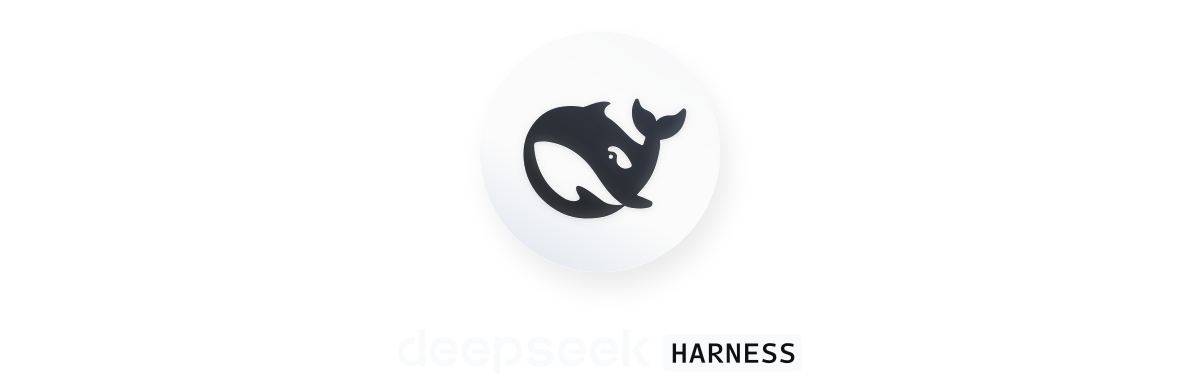
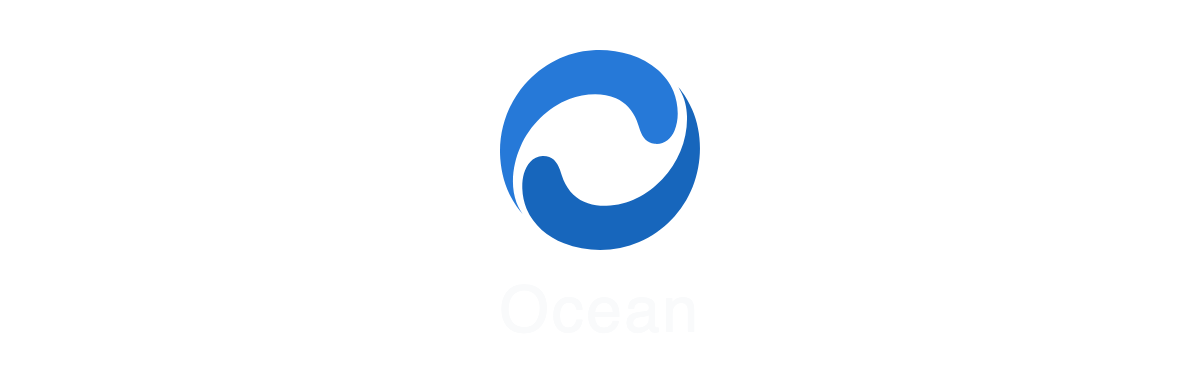
fix(desktop): brand the installer pages Ocean instead of DeepSeek
Replace the DeepSeek whale and wordmark in the welcome/finish brand bitmaps (both themes, 1x/2x) and the uninstaller sidebar with the Ocean swirl and wordmark, matching the product branding policy. Regenerate from the shared FishLogo geometry at the existing asset dimensions; document the artwork and the measured captions in both READMEs and re-record the bilingual pair.

Changed region(s): [[0.4008, 0.1224, 0.5858, 0.6429], [0.555, 0.8571, 0.6783, 0.949]]

diff --git a/apps/desktop/README.md b/apps/desktop/README.md
@@ -101,7 +101,7 @@ The tray renderer enlarges the whale by 20% around the tile center while preserv
 
 ## Key technical decisions
 
-The original artwork lives in `resources/icon.png` and `resources/icon.svg`; platform adaptations retain the whale and gradients in `resources/icon-windows.*` and `resources/icon-macos.*`. Export each platform SVG as a transparent 1024×1024 PNG. Electron-builder generates the multi-size ICO for the Windows application, installer, and uninstaller ([Windows icon requirements](https://learn.microsoft.com/en-us/windows/apps/design/iconography/app-icon-construction)). The installation pages use matching artwork in both themes; the uninstaller's welcome and finish pages share `installer/assets/uninstaller-sidebar.png`, converted to a 164×314 BMP during preparation.
+The original artwork lives in `resources/icon.png` and `resources/icon.svg`; platform adaptations retain the whale and gradients in `resources/icon-windows.*` and `resources/icon-macos.*`. Export each platform SVG as a transparent 1024×1024 PNG. Electron-builder generates the multi-size ICO for the Windows application, installer, and uninstaller ([Windows icon requirements](https://learn.microsoft.com/en-us/windows/apps/design/iconography/app-icon-construction)). The installation pages show the Ocean swirl and wordmark from `installer/assets/brand*.png` in both themes; the uninstaller's welcome and finish pages share `installer/assets/uninstaller-sidebar.png`, converted to a 164×314 BMP during preparation.
 
 Shortcut overrides are stored in `app.getPath('userData')/keybindings.json`, separately from `OCEAN_HOME`. The main process validates and serializes changes before publishing accepted bindings to local and remote Host views. Native shortcuts go to the selected view. Failed reads retain the last accepted bindings and block edits, including Restore All; unreadable and future-version files remain unchanged. Development can isolate these preferences with `OCEAN_DESKTOP_USER_DATA_DIR`; the launcher prints its resolved path. See the [shortcut service](../../packages/client/shortcuts/README.md) for format and conflict semantics.
 
@@ -265,7 +265,7 @@ Use the dedicated guides for build and release operations. Shared Windows runner
 
 During a confirmed Windows update restart, a separate process displays a draggable status notice until the installation stage ends. The installer does not wait for this window; installation and relaunch continue if it cannot start or stops responding. A gap can remain before the new application window appears. Optional DPI APIs are resolved at runtime, with 96 DPI layout when unavailable.
 
-The Windows installer uses native NSIS pages with light and dark palettes, system shadows, an editable installation directory, and a finish page whose launch checkbox is selected by default. Installation is restricted to the current user. Clicking Install or pressing Enter validates the current path; drive roots remain invalid after normalization, including repeated trailing separators. New destinations must be empty, and nonempty destinations must be registered installations. Running executables at the affected installation path produce a native prompt and remain running; same-named applications in other directories do not block installation. Silent updates wait up to ten seconds for the affected application to exit, then stop with exit code 2 if it is still running.
+The Windows installer uses native NSIS pages with light and dark palettes, system shadows, an editable installation directory, and a finish page whose launch checkbox is selected by default. The Install, directory chooser, and Browse buttons measure their localized captions and centre on the measured width, so long captions never clip; the path frame takes the width the Browse button leaves. Installation is restricted to the current user. Clicking Install or pressing Enter validates the current path; drive roots remain invalid after normalization, including repeated trailing separators. New destinations must be empty, and nonempty destinations must be registered installations. Running executables at the affected installation path produce a native prompt and remain running; same-named applications in other directories do not block installation. Silent updates wait up to ten seconds for the affected application to exit, then stop with exit code 2 if it is still running.
 
 The theme follows Windows at startup; `/THEME=light`, `/THEME=dark`, and `/THEME=auto` select a palette explicitly. The window appears after its branded controls are ready. When the welcome page first appears, the installer moves above ordinary windows once and flashes its taskbar button if another window has focus; it does not remain always on top. Progress reads the pinned 7-Zip extractor’s percentage; directory promotion, registration, and cleanup retain bounded estimates. The weighted percentage does not predict remaining time. After NSIS reports success, the bar fills over 600 ms and displays 100% briefly before the finish page appears; the transition targets 750 ms. The finish page preserves the window position. Finish dismisses the installer before launching the installed executable; a launch failure restores the page for retry. Directory replacement and failure recovery follow the [installation checks](packaging/README.md#runtime-file-selection). First-launch profile preparation remains a separate Desktop operation.
 

diff --git a/apps/desktop/README.zh.md b/apps/desktop/README.zh.md
@@ -101,7 +101,7 @@ Windows 在整个运行期间常驻托盘图标。悬停提示为产品名，单
 
 ## 关键技术决策
 
-设计师原稿位于 `resources/icon.png` 和 `resources/icon.svg`；平台适配保留鲸鱼与渐变，分别位于 `resources/icon-windows.*` 和 `resources/icon-macos.*`。将各平台 SVG 导出为透明的 1024×1024 PNG。electron-builder 为 Windows 应用、安装程序和卸载程序生成多尺寸 ICO（[Windows 图标要求](https://learn.microsoft.com/en-us/windows/apps/design/iconography/app-icon-construction)）。安装页面在两种主题下使用匹配的图案；卸载程序的欢迎和完成页共用 `installer/assets/uninstaller-sidebar.png`，准备阶段将其转换为 164×314 BMP。
+设计师原稿位于 `resources/icon.png` 和 `resources/icon.svg`；平台适配保留鲸鱼与渐变，分别位于 `resources/icon-windows.*` 和 `resources/icon-macos.*`。将各平台 SVG 导出为透明的 1024×1024 PNG。electron-builder 为 Windows 应用、安装程序和卸载程序生成多尺寸 ICO（[Windows 图标要求](https://learn.microsoft.com/en-us/windows/apps/design/iconography/app-icon-construction)）。安装页面在两种主题下展示 `installer/assets/brand*.png` 中的 Ocean 旋环标志与字标；卸载程序的欢迎和完成页共用 `installer/assets/uninstaller-sidebar.png`，准备阶段将其转换为 164×314 BMP。
 
 快捷键覆盖保存在 `app.getPath('userData')/keybindings.json`，与 `OCEAN_HOME` 分离。主进程校验并串行保存修改后，向本地和远程 Host 视图发布已接受的键位。原生快捷键发给当前选中的视图。读取失败保留上次接受的键位并阻止编辑，包括全部恢复；不可读和未来版本的文件保持不变。开发时可通过 `OCEAN_DESKTOP_USER_DATA_DIR` 隔离这些偏好，启动器会输出解析后的路径。格式和冲突语义见[快捷键服务](../../packages/client/shortcuts/README.zh.md)。
 
@@ -265,7 +265,7 @@ API Key 输入框初始为空，并通过 `autocomplete="new-password"` 请求 C
 
 Windows 更新确认重启后，独立进程显示可拖动的状态提示，直到安装阶段结束。安装器不等待提示窗；提示窗无法启动或失去响应时，安装和重新启动仍会继续。新版应用窗口出现前仍可能有一段空白。可选的 DPI API 在运行时解析，不可用时采用 96 DPI 布局。
 
-Windows 安装程序使用原生 NSIS 页面，提供亮暗配色、系统阴影、可编辑的安装目录，以及默认勾选立即启动的完成页。安装仅面向当前用户。点击安装或按 Enter 均校验当前路径；路径规范化后仍拒绝磁盘根目录，包括带重复末尾分隔符的写法。新安装位置必须为空，非空位置必须是已登记的安装目录。受影响安装路径中的程序运行时显示系统提示，并保持应用运行；其他目录中的同名应用不阻止安装。静默更新最多等待受影响应用退出十秒，若仍在运行则以退出码 2 结束。
+Windows 安装程序使用原生 NSIS 页面，提供亮暗配色、系统阴影、可编辑的安装目录，以及默认勾选立即启动的完成页。安装、选择目录与浏览按钮按本地化标题的实测宽度居中排布，长标题不会被裁切；路径输入框占据浏览按钮让出的宽度。安装仅面向当前用户。点击安装或按 Enter 均校验当前路径；路径规范化后仍拒绝磁盘根目录，包括带重复末尾分隔符的写法。新安装位置必须为空，非空位置必须是已登记的安装目录。受影响安装路径中的程序运行时显示系统提示，并保持应用运行；其他目录中的同名应用不阻止安装。静默更新最多等待受影响应用退出十秒，若仍在运行则以退出码 2 结束。
 
 主题在启动时跟随 Windows；可用 `/THEME=light`、`/THEME=dark` 和 `/THEME=auto` 显式选择配色。窗口在品牌控件准备完成后显示。欢迎页首次出现时，安装窗口会一次性移到普通窗口前方；若焦点在其他窗口，任务栏按钮会闪烁提示，但安装窗口不会始终置顶。进度读取锁定版本的 7-Zip 解压器百分比；目录替换、注册和清理仍使用有界估算。加权百分比不代表剩余时间。NSIS 报告成功后，进度条用 600 毫秒补满并短暂显示 100%，再显示完成页；切换目标时长为 750 毫秒。完成页保留窗口位置。点击完成后，安装程序先隐藏窗口，再启动已安装的可执行文件；启动失败会恢复页面以供重试。目录替换和失败恢复遵循[安装检查](packaging/README.zh.md#runtime-file-selection)。首次启动的配置档案准备仍属于独立的 Desktop 操作。
 
